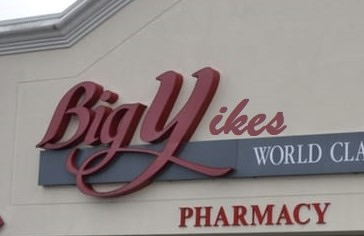
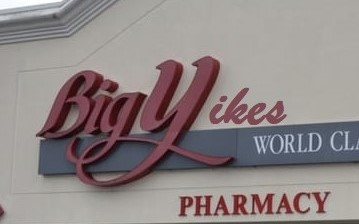
resized image even more

diff --git a/index.html b/index.html
@@ -11,7 +11,7 @@
             </div>
             <div id ="pic">
                 <h1 class = "title" >Welcome!</h1>
-                <img src="big y.jpg" alt="big y but edited to say big yikes">
+                <img src="big y.jpg" alt="big y but edited to say big yikes" height="175" width="250" >
                 <p>My name's Ankita, I'm a CS student at <a href = "https://www.youtube.com/watch?v=L_jWHffIx5E">UMass Amherst</a>, and this is a website I made for CS 326!</p>
                 <p>You may find that there's a lot of placeholders - sorry about that. Until then, enjoy the rustic homemade meme above, and I promise the links work too</p>
             </div>
